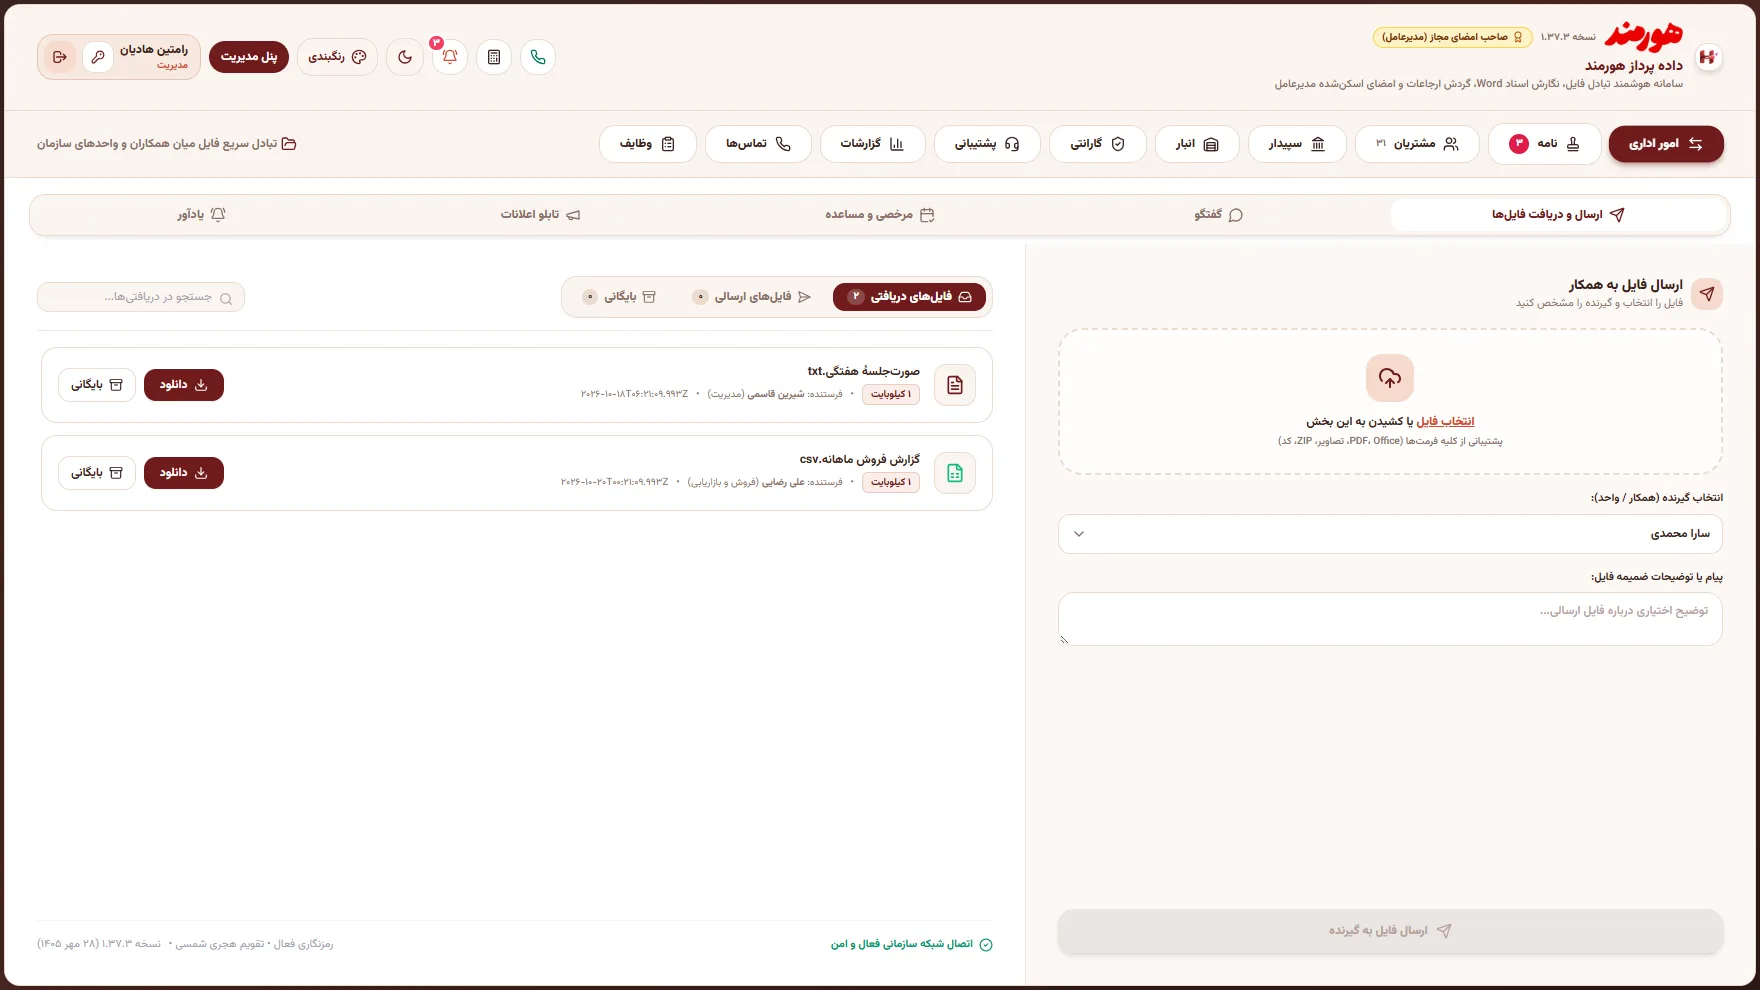
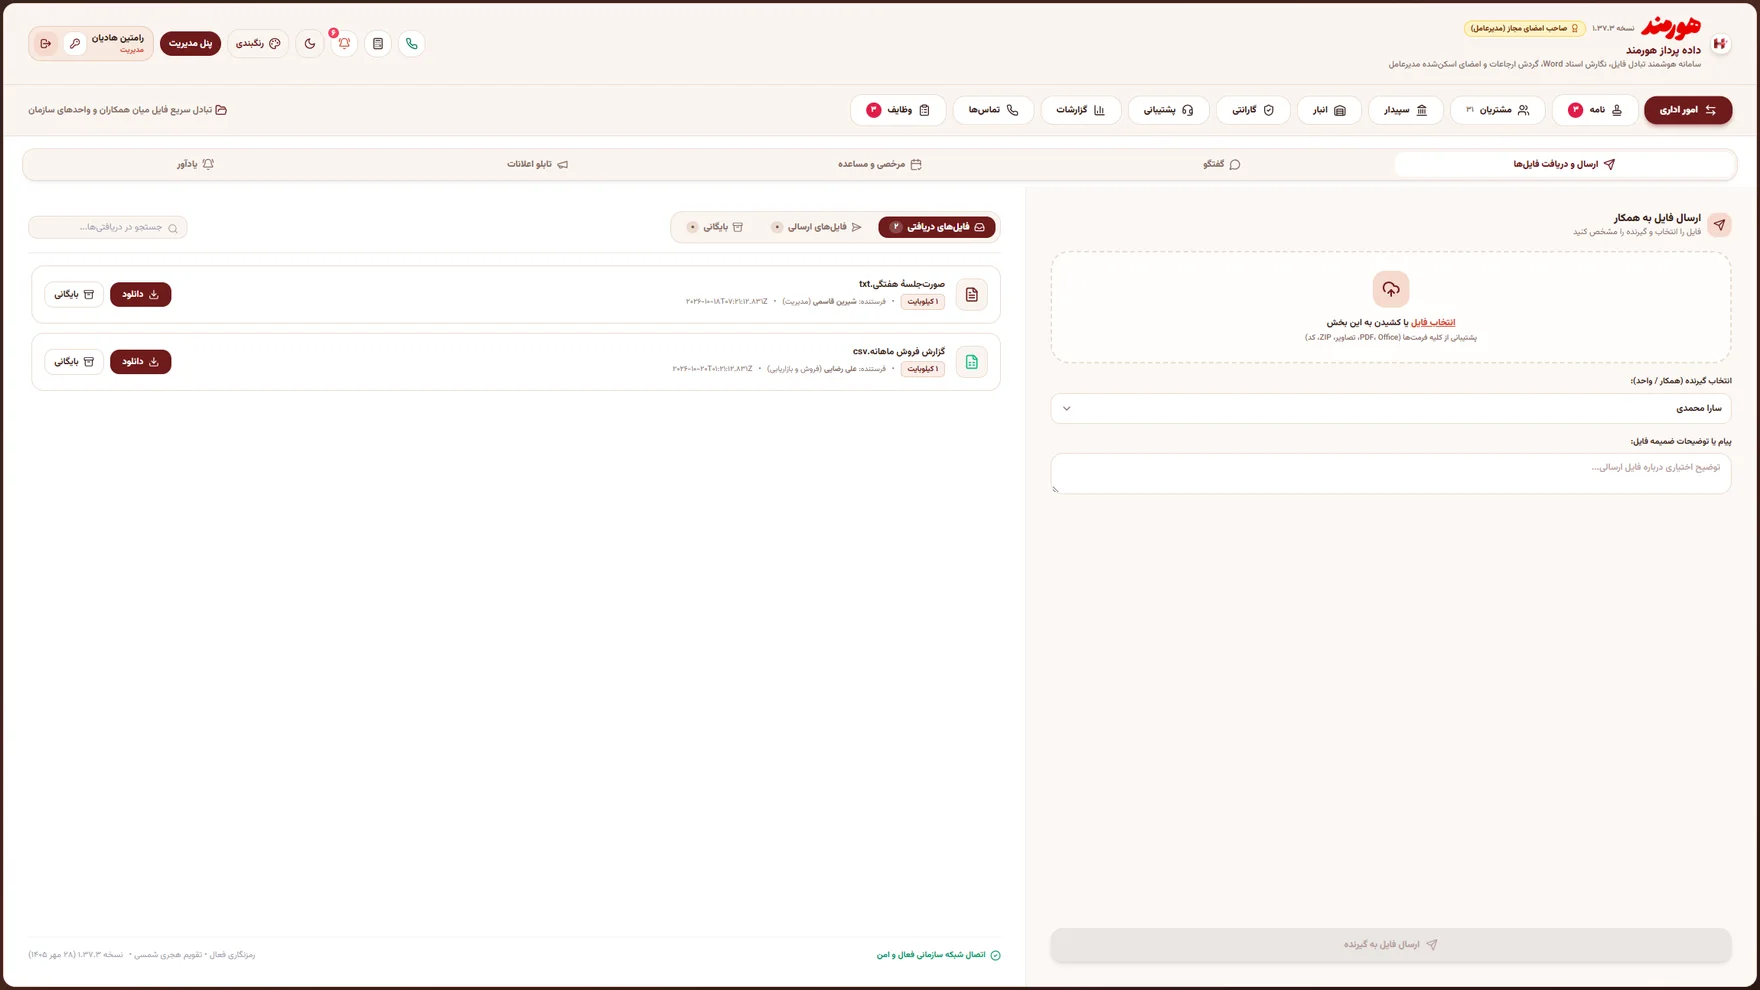
Showcase screenshots fit the frame (zoomed out); cache-bust images

diff --git a/hoormand.php b/hoormand.php
@@ -51,7 +51,7 @@ if ($https) { header('Strict-Transport-Security: max-age=31536000; includeSubDom
 <noscript><style>.rv{opacity:1!important;transform:none!important}</style></noscript>
 
 <link rel="preload" href="fonts/Vazirmatn-Bold.woff2" as="font" type="font/woff2" crossorigin="anonymous">
-<link rel="stylesheet" href="styles.css?v=202610201032">
+<link rel="stylesheet" href="styles.css?v=202610201124">
 </head>
 <body>
 
@@ -119,7 +119,7 @@ if ($https) { header('Strict-Transport-Security: max-age=31536000; includeSubDom
     <div class="stage-dev rv" style="--i:2" id="stageDev">
       <div class="dev">
         <div class="bar"><i></i><i></i><i></i><span>سامانهٔ هورمند</span></div>
-        <img src="img/deals.webp" alt="قیف فروش در سامانهٔ هورمند" width="1760" height="990" fetchpriority="high">
+        <img src="img/deals.webp?v=202610201124" alt="قیف فروش در سامانهٔ هورمند" width="1760" height="990" fetchpriority="high">
       </div>
       <div class="chip c1"><b>☎ تماس ورودی</b><small>شرکت آرمان صنعت · داخلی ۵۰۰</small></div>
       <div class="chip c2"><b>✓ پیشفاکتور صادر شد</b><small>پیامک به مشتری رفت</small></div>
@@ -128,37 +128,37 @@ if ($https) { header('Strict-Transport-Security: max-age=31536000; includeSubDom
     <div class="dcards" id="features">
       <article class="dcard rv" style="--i:0">
         <span class="tagp"><i class="ring"></i>مشتریان و فروش</span>
-        <div class="dimg"><img src="img/crm.webp" alt="خلاصهٔ مشتریان و فروش در نرمافزار CRM فارسی هورمند" loading="lazy" width="1760" height="990"></div>
+        <div class="dimg"><img src="img/crm.webp?v=202610201124" alt="خلاصهٔ مشتریان و فروش در نرمافزار CRM فارسی هورمند" loading="lazy" width="1760" height="990"></div>
         <h3>مشتری را از اولین تماس تا فروش موفق ببینید.</h3>
         <ul><li>پروندهٔ کامل هر مشتری</li><li>قیف فروش و پیگیری روزانه</li><li>پیشفاکتور با تأیید مدیرعامل</li></ul>
       </article>
       <article class="dcard rv" style="--i:1">
         <span class="tagp"><i class="ring"></i>تلفن و پیامک</span>
-        <div class="dimg call"><img src="img/call.webp" alt="پاپآپ تماس ورودی مشتری در سامانه هورمند" loading="lazy" width="1760" height="990"></div>
+        <div class="dimg call"><img src="img/call.webp?v=202610201124" alt="پاپآپ تماس ورودی مشتری در سامانه هورمند" loading="lazy" width="1760" height="990"></div>
         <h3>مشتری زنگ زد، پروندهاش همان لحظه باز شد.</h3>
         <ul><li>پاپآپ همان لحظهٔ زنگ خوردن، با نام مشتری</li><li>فرصت فروش باز، بدهی و آخرین یادداشتها</li><li>ثبت همهٔ تماسها، حتی داخلیهای فالومی</li></ul>
       </article>
       <article class="dcard rv" style="--i:2">
         <span class="tagp"><i class="ring"></i>نامه و فایل</span>
-        <div class="dimg"><img src="img/letters.webp" alt="کارتابل نامهنگاری اداری با ارجاع و امضا" loading="lazy" width="1760" height="990"></div>
+        <div class="dimg"><img src="img/letters.webp?v=202610201124" alt="کارتابل نامهنگاری اداری با ارجاع و امضا" loading="lazy" width="1760" height="990"></div>
         <h3>نامهٔ رسمی با شماره، ارجاع و امضای مدیرعامل.</h3>
         <ul><li>ویرایشگر شبیه Word</li><li>شمارهٔ خودکار نامه</li><li>ارسال فایل به همکار و واحد</li></ul>
       </article>
       <article class="dcard rv" style="--i:3">
         <span class="tagp"><i class="ring"></i>گارانتی و پشتیبانی</span>
-        <div class="dimg"><img src="img/tickets.webp" alt="درخواستهای پشتیبانی مشتریان با مهلت پاسخ" loading="lazy" width="1760" height="990"></div>
+        <div class="dimg"><img src="img/tickets.webp?v=202610201124" alt="درخواستهای پشتیبانی مشتریان با مهلت پاسخ" loading="lazy" width="1760" height="990"></div>
         <h3>هر درخواست مهلت دارد و هیچکدام فراموش نمیشود.</h3>
         <ul><li>پلن و اشتراک پشتیبانی</li><li>گواهی گارانتی با مهر و امضا</li><li>صفحهٔ ورود مشتری و دستیار هوشمند</li></ul>
       </article>
       <article class="dcard rv" style="--i:4">
         <span class="tagp"><i class="ring"></i>انبار</span>
-        <div class="dimg"><img src="img/warehouse.webp" alt="انبار و موجودی کالا در سامانهٔ هورمند با گروهبندی" loading="lazy" width="1760" height="990"></div>
+        <div class="dimg"><img src="img/warehouse.webp?v=202610201124" alt="انبار و موجودی کالا در سامانهٔ هورمند با گروهبندی" loading="lazy" width="1760" height="990"></div>
         <h3>موجودی هر کالا، با گروه و حداقل هشدار.</h3>
         <ul><li>گروههای سلسلهمراتبی و دسترسی هر همکار به گروهها</li><li>رسید، حواله، انتقال و انبارگردانی</li><li>کالا و خدمات؛ انبار دارای موجودی حذف نمیشود</li></ul>
       </article>
       <article class="dcard rv" style="--i:5">
         <span class="tagp"><i class="ring"></i>اتصال به سپیدار</span>
-        <div class="dimg"><img src="img/sepidar.webp" alt="اتصال هورمند به حسابداری سپیدار: پیشفاکتور، فاکتور و دریافت" loading="lazy" width="1760" height="990"></div>
+        <div class="dimg"><img src="img/sepidar.webp?v=202610201124" alt="اتصال هورمند به حسابداری سپیدار: پیشفاکتور، فاکتور و دریافت" loading="lazy" width="1760" height="990"></div>
         <h3>مانده حساب مشتری را همان لحظهٔ تماس ببینید.</h3>
         <ul><li>مشتری، کالا و موجودی از سپیدار میآید</li><li>پیشفاکتور را از هورمند به سپیدار بفرستید</li><li>دسترسی جدا برای هر بخش مالی</li></ul>
       </article>
@@ -256,18 +256,18 @@ if ($https) { header('Strict-Transport-Security: max-age=31536000; includeSubDom
         <div class="dev big">
           <div class="bar"><i></i><i></i><i></i><span id="stageTitle">امور اداری</span></div>
           <div class="imgs" id="stageImgs">
-            <img class="on" src="img/files.webp" alt="ارسال و دریافت فایل در امور اداری" data-k="files" loading="lazy" width="1760" height="990">
-            <img src="img/editor.webp" alt="ویرایشگر نامهنگاری اداری" data-k="editor" loading="lazy" width="1760" height="990">
-            <img src="img/customer.webp" alt="پروندهٔ مشتری در CRM" data-k="customer" loading="lazy" width="1760" height="990">
-            <img src="img/proforma.webp" alt="صدور پیشفاکتور" data-k="proforma" loading="lazy" width="1760" height="990">
-            <img src="img/warranty.webp" alt="سامانهٔ ثبت گارانتی" data-k="warranty" loading="lazy" width="1760" height="990">
-            <img src="img/support.webp" alt="پلنها و اشتراک پشتیبانی" data-k="support" loading="lazy" width="1760" height="990">
-            <img src="img/reports.webp" alt="گزارشات مدیریتی فروش و پشتیبانی" data-k="reports" loading="lazy" width="1760" height="990">
-            <img src="img/sc_calls.webp" alt="تماسهای شرکت و سابقهٔ تماس" data-k="sc_calls" loading="lazy" width="1760" height="990">
-            <img src="img/sc_sepidar.webp" alt="اتصال به سپیدار: پیشفاکتور و فاکتور" data-k="sc_sepidar" loading="lazy" width="1760" height="990">
-            <img src="img/sc_warehouse.webp" alt="انبار و موجودی کالا با گروهبندی" data-k="sc_warehouse" loading="lazy" width="1760" height="990">
-            <img src="img/sc_tasks.webp" alt="تابلوی وظایف و گزارش روزانه" data-k="sc_tasks" loading="lazy" width="1760" height="990">
-            <img src="img/admin.webp" alt="کنسول مدیریت کاربران و دسترسیها" data-k="admin" loading="lazy" width="1760" height="990">
+            <img class="on" src="img/files.webp?v=202610201124" alt="ارسال و دریافت فایل در امور اداری" data-k="files" loading="lazy" width="1760" height="990">
+            <img src="img/editor.webp?v=202610201124" alt="ویرایشگر نامهنگاری اداری" data-k="editor" loading="lazy" width="1760" height="990">
+            <img src="img/customer.webp?v=202610201124" alt="پروندهٔ مشتری در CRM" data-k="customer" loading="lazy" width="1760" height="990">
+            <img src="img/proforma.webp?v=202610201124" alt="صدور پیشفاکتور" data-k="proforma" loading="lazy" width="1760" height="990">
+            <img src="img/warranty.webp?v=202610201124" alt="سامانهٔ ثبت گارانتی" data-k="warranty" loading="lazy" width="1760" height="990">
+            <img src="img/support.webp?v=202610201124" alt="پلنها و اشتراک پشتیبانی" data-k="support" loading="lazy" width="1760" height="990">
+            <img src="img/reports.webp?v=202610201124" alt="گزارشات مدیریتی فروش و پشتیبانی" data-k="reports" loading="lazy" width="1760" height="990">
+            <img src="img/sc_calls.webp?v=202610201124" alt="تماسهای شرکت و سابقهٔ تماس" data-k="sc_calls" loading="lazy" width="1760" height="990">
+            <img src="img/sc_sepidar.webp?v=202610201124" alt="اتصال به سپیدار: پیشفاکتور و فاکتور" data-k="sc_sepidar" loading="lazy" width="1760" height="990">
+            <img src="img/sc_warehouse.webp?v=202610201124" alt="انبار و موجودی کالا با گروهبندی" data-k="sc_warehouse" loading="lazy" width="1760" height="990">
+            <img src="img/sc_tasks.webp?v=202610201124" alt="تابلوی وظایف و گزارش روزانه" data-k="sc_tasks" loading="lazy" width="1760" height="990">
+            <img src="img/admin.webp?v=202610201124" alt="کنسول مدیریت کاربران و دسترسیها" data-k="admin" loading="lazy" width="1760" height="990">
           </div>
         </div>
         <p class="stage-text" id="stageText" aria-live="polite">ارسال و دریافت فایل میان همکاران و واحدها، گفتگو، درخواست مرخصی و تابلو اعلانات.</p>
@@ -286,9 +286,9 @@ if ($https) { header('Strict-Transport-Security: max-age=31536000; includeSubDom
       <ul class="ticks rv" style="--i:3"><li>ظاهر یکسان روی رایانه و گوشی</li><li>اعلان موبایل و پاپآپ تماس</li><li>ورود با نام کاربری و رمز</li></ul>
     </div>
     <div class="phones" id="phones" aria-hidden="true">
-      <div class="phone p1" data-speed="0.10"><img src="img/m-home.webp" alt="سامانه هورمند روی گوشی" loading="lazy" width="600" height="1300"></div>
-      <div class="phone p2" data-speed="0.04"><img src="img/m-crm.webp" alt="مدیریت مشتریان روی گوشی" loading="lazy" width="600" height="1300"></div>
-      <div class="phone p3" data-speed="0.16"><img src="img/p-home.webp" alt="صفحهٔ ورود مشتری به پشتیبانی" loading="lazy" width="600" height="1300"></div>
+      <div class="phone p1" data-speed="0.10"><img src="img/m-home.webp?v=202610201124" alt="سامانه هورمند روی گوشی" loading="lazy" width="600" height="1300"></div>
+      <div class="phone p2" data-speed="0.04"><img src="img/m-crm.webp?v=202610201124" alt="مدیریت مشتریان روی گوشی" loading="lazy" width="600" height="1300"></div>
+      <div class="phone p3" data-speed="0.16"><img src="img/p-home.webp?v=202610201124" alt="صفحهٔ ورود مشتری به پشتیبانی" loading="lazy" width="600" height="1300"></div>
     </div>
   </div>
 </section>
@@ -297,7 +297,7 @@ if ($https) { header('Strict-Transport-Security: max-age=31536000; includeSubDom
 <section class="dark-sec portal" id="support">
   <div class="glow-top" aria-hidden="true"></div>
   <div class="wrap split">
-    <div class="split-img rv"><div class="phone solo"><img src="img/p-chat.webp" alt="صفحهٔ مشتریان: گفتگو دربارهٔ یک درخواست پشتیبانی" loading="lazy" width="600" height="1300"></div></div>
+    <div class="split-img rv"><div class="phone solo"><img src="img/p-chat.webp?v=202610201124" alt="صفحهٔ مشتریان: گفتگو دربارهٔ یک درخواست پشتیبانی" loading="lazy" width="600" height="1300"></div></div>
     <div class="split-copy">
       <span class="pill-label glass rv">پشتیبانی مشتریان</span>
       <h2 class="h2 rv" style="--i:1">مشتری مشکلش را<br><span class="grad">خودش میفرستد.</span></h2>
@@ -362,6 +362,6 @@ if ($https) { header('Strict-Transport-Security: max-age=31536000; includeSubDom
 </footer>
 
 <script nonce="<?= $nonce ?>">window.HOORMAND_CONTACT = <?= json_encode($contact, JSON_UNESCAPED_UNICODE | JSON_HEX_TAG | JSON_HEX_AMP | JSON_HEX_APOS | JSON_HEX_QUOT) ?>;</script>
-<script src="app.js?v=202610201032" defer></script>
+<script src="app.js?v=202610201124" defer></script>
 </body>
 </html>
